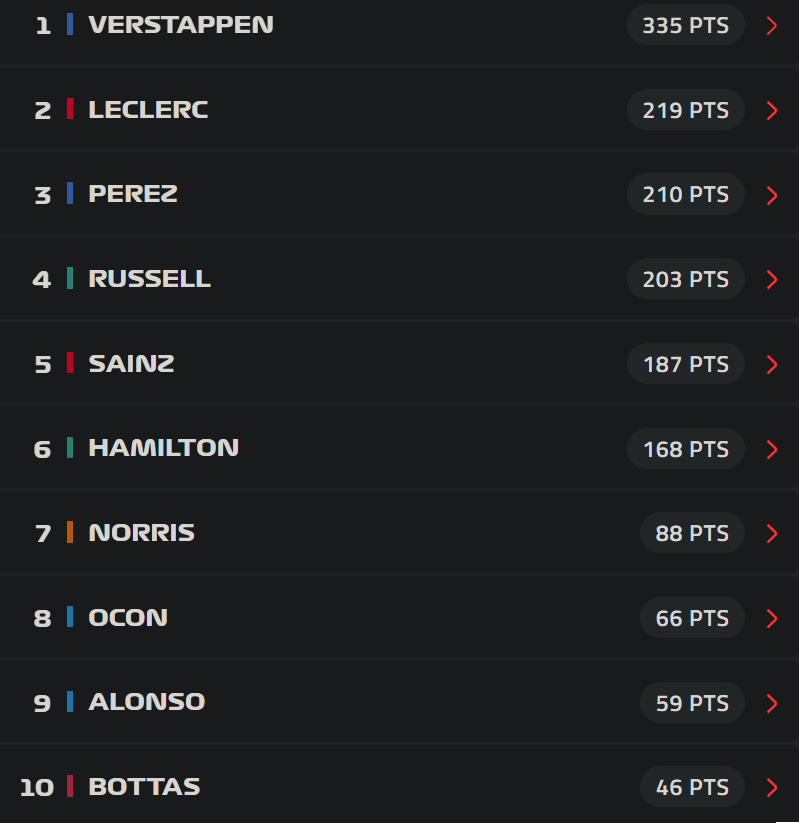
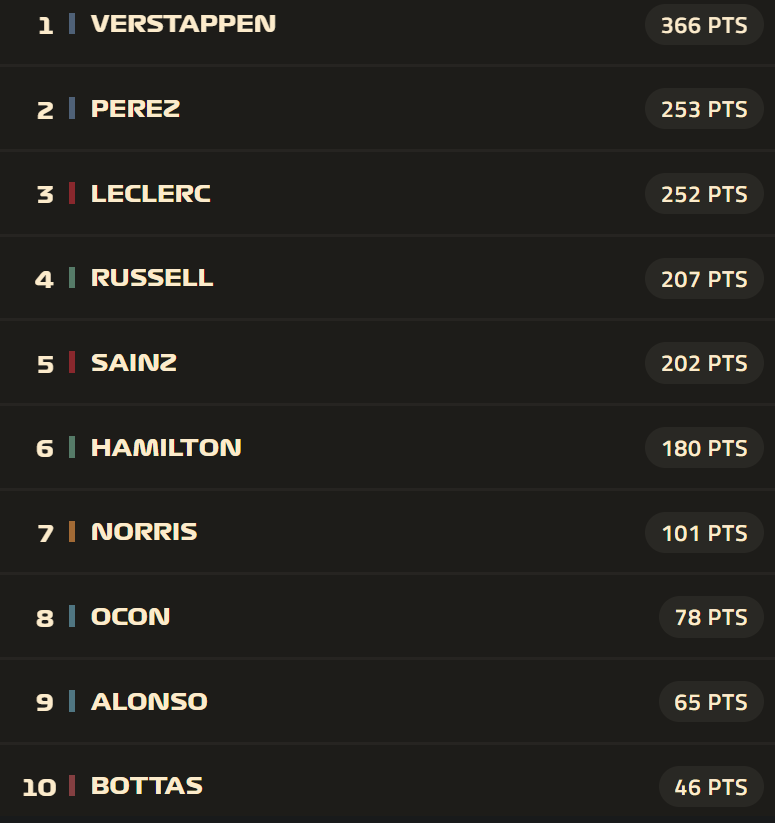
''update''

diff --git a/index.html b/index.html
@@ -114,6 +114,7 @@
                     <h3><img src="首頁資料/icon/f1.png" style="height: 45px;"></h3>
                 </a>
                 <section>
+                    <blockquote class="instagram-media" data-instgrm-captioned data-instgrm-permalink="https://www.instagram.com/p/CjfVsbKoj4i/?utm_source=ig_embed&amp;utm_campaign=loading" data-instgrm-version="14" style=" border-radius:5px; box-shadow:0 0 1px 0 rgba(0,0,0,0.5),0 1px 10px 0 rgba(0,0,0,0.15); margin: 1px;  padding:0; "><div style="padding:16px;"> <a href="https://www.instagram.com/p/CjfVsbKoj4i/?utm_source=ig_embed&amp;utm_campaign=loading" style=" background:#FFFFFF; line-height:0; padding:0 0; text-align:center; text-decoration:none; width:100%;" target="_blank"> <div style=" display: flex; flex-direction: row; align-items: center;"> <div style="background-color: #F4F4F4; border-radius: 50%; flex-grow: 0; height: 40px; margin-right: 14px; width: 40px;"></div> <div style="display: flex; flex-direction: column; flex-grow: 1; justify-content: center;"> <div style=" background-color: #F4F4F4; border-radius: 4px; flex-grow: 0; height: 14px; margin-bottom: 6px; width: 100px;"></div> <div style=" background-color: #F4F4F4; border-radius: 4px; flex-grow: 0; height: 14px; width: 60px;"></div></div></div><div style="padding: 19% 0;"></div> <div style="display:block; height:50px; margin:0 auto 12px; width:50px;"><svg width="50px" height="50px" viewBox="0 0 60 60" version="1.1" xmlns="https://www.w3.org/2000/svg" xmlns:xlink="https://www.w3.org/1999/xlink"><g stroke="none" stroke-width="1" fill="none" fill-rule="evenodd"><g transform="translate(-511.000000, -20.000000)" fill="#000000"><g><path d="M556.869,30.41 C554.814,30.41 553.148,32.076 553.148,34.131 C553.148,36.186 554.814,37.852 556.869,37.852 C558.924,37.852 560.59,36.186 560.59,34.131 C560.59,32.076 558.924,30.41 556.869,30.41 M541,60.657 C535.114,60.657 530.342,55.887 530.342,50 C530.342,44.114 535.114,39.342 541,39.342 C546.887,39.342 551.658,44.114 551.658,50 C551.658,55.887 546.887,60.657 541,60.657 M541,33.886 C532.1,33.886 524.886,41.1 524.886,50 C524.886,58.899 532.1,66.113 541,66.113 C549.9,66.113 557.115,58.899 557.115,50 C557.115,41.1 549.9,33.886 541,33.886 M565.378,62.101 C565.244,65.022 564.756,66.606 564.346,67.663 C563.803,69.06 563.154,70.057 562.106,71.106 C561.058,72.155 560.06,72.803 558.662,73.347 C557.607,73.757 556.021,74.244 553.102,74.378 C549.944,74.521 548.997,74.552 541,74.552 C533.003,74.552 532.056,74.521 528.898,74.378 C525.979,74.244 524.393,73.757 523.338,73.347 C521.94,72.803 520.942,72.155 519.894,71.106 C518.846,70.057 518.197,69.06 517.654,67.663 C517.244,66.606 516.755,65.022 516.623,62.101 C516.479,58.943 516.448,57.996 516.448,50 C516.448,42.003 516.479,41.056 516.623,37.899 C516.755,34.978 517.244,33.391 517.654,32.338 C518.197,30.938 518.846,29.942 519.894,28.894 C520.942,27.846 521.94,27.196 523.338,26.654 C524.393,26.244 525.979,25.756 528.898,25.623 C532.057,25.479 533.004,25.448 541,25.448 C548.997,25.448 549.943,25.479 553.102,25.623 C556.021,25.756 557.607,26.244 558.662,26.654 C560.06,27.196 561.058,27.846 562.106,28.894 C563.154,29.942 563.803,30.938 564.346,32.338 C564.756,33.391 565.244,34.978 565.378,37.899 C565.522,41.056 565.552,42.003 565.552,50 C565.552,57.996 565.522,58.943 565.378,62.101 M570.82,37.631 C570.674,34.438 570.167,32.258 569.425,30.349 C568.659,28.377 567.633,26.702 565.965,25.035 C564.297,23.368 562.623,22.342 560.652,21.575 C558.743,20.834 556.562,20.326 553.369,20.18 C550.169,20.033 549.148,20 541,20 C532.853,20 531.831,20.033 528.631,20.18 C525.438,20.326 523.257,20.834 521.349,21.575 C519.376,22.342 517.703,23.368 516.035,25.035 C514.368,26.702 513.342,28.377 512.574,30.349 C511.834,32.258 511.326,34.438 511.181,37.631 C511.035,40.831 511,41.851 511,50 C511,58.147 511.035,59.17 511.181,62.369 C511.326,65.562 511.834,67.743 512.574,69.651 C513.342,71.625 514.368,73.296 516.035,74.965 C517.703,76.634 519.376,77.658 521.349,78.425 C523.257,79.167 525.438,79.673 528.631,79.82 C531.831,79.965 532.853,80.001 541,80.001 C549.148,80.001 550.169,79.965 553.369,79.82 C556.562,79.673 558.743,79.167 560.652,78.425 C562.623,77.658 564.297,76.634 565.965,74.965 C567.633,73.296 568.659,71.625 569.425,69.651 C570.167,67.743 570.674,65.562 570.82,62.369 C570.966,59.17 571,58.147 571,50 C571,41.851 570.966,40.831 570.82,37.631"></path></g></g></g></svg></div><div style="padding-top: 8px;"> <div style=" color:#3897f0; font-family:Arial,sans-serif; font-size:14px; font-style:normal; font-weight:550; line-height:18px;">在 Instagram 查看這則貼文</div></div><div style="padding: 12.5% 0;"></div> <div style="display: flex; flex-direction: row; margin-bottom: 14px; align-items: center;"><div> <div style="background-color: #F4F4F4; border-radius: 50%; height: 12.5px; width: 12.5px; transform: translateX(0px) translateY(7px);"></div> <div style="background-color: #F4F4F4; height: 12.5px; transform: rotate(-45deg) translateX(3px) translateY(1px); width: 12.5px; flex-grow: 0; margin-right: 14px; margin-left: 2px;"></div> <div style="background-color: #F4F4F4; border-radius: 50%; height: 12.5px; width: 12.5px; transform: translateX(9px) translateY(-18px);"></div></div><div style="margin-left: 8px;"> <div style=" background-color: #F4F4F4; border-radius: 50%; flex-grow: 0; height: 20px; width: 20px;"></div> <div style=" width: 0; height: 0; border-top: 2px solid transparent; border-left: 6px solid #f4f4f4; border-bottom: 2px solid transparent; transform: translateX(16px) translateY(-4px) rotate(30deg)"></div></div><div style="margin-left: auto;"> <div style=" width: 0px; border-top: 8px solid #F4F4F4; border-right: 8px solid transparent; transform: translateY(16px);"></div> <div style=" background-color: #F4F4F4; flex-grow: 0; height: 12px; width: 16px; transform: translateY(-4px);"></div> <div style=" width: 0; height: 0; border-top: 8px solid #F4F4F4; border-left: 8px solid transparent; transform: translateY(-4px) translateX(8px);"></div></div></div> <div style="display: flex; flex-direction: column; flex-grow: 1; justify-content: center; margin-bottom: 24px;"> <div style=" background-color: #F4F4F4; border-radius: 4px; flex-grow: 0; height: 14px; margin-bottom: 6px; width: 224px;"></div> <div style=" background-color: #F4F4F4; border-radius: 4px; flex-grow: 0; height: 14px; width: 144px;"></div></div></a><p style=" color:#c9c8cd; font-family:Arial,sans-serif; font-size:14px; line-height:17px; margin-bottom:0; margin-top:8px; overflow:hidden; padding:8px 0 7px; text-align:center; text-overflow:ellipsis; white-space:nowrap;"><a href="https://www.instagram.com/p/CjfVsbKoj4i/?utm_source=ig_embed&amp;utm_campaign=loading" style=" color:#c9c8cd; font-family:Arial,sans-serif; font-size:14px; font-style:normal; font-weight:normal; line-height:17px; text-decoration:none;" target="_blank">FORMULA 1®（@f1）分享的貼文</a></p></div></blockquote> <script async src="//www.instagram.com/embed.js"></script>
                     <a href="https://www.formula1.com/en/results.html/2022/drivers.html"><img src="首頁資料/f1standing.png"></a>
                     <p>Super Max~</p><br>
                 </section>

diff --git a/card/trd.html b/card/trd.html
@@ -45,7 +45,7 @@
                 <a href="#lastjourney" target="_self" ><li>國三畢業旅行</li></a>
                 <a href="#chih-mo" target="_self" ><li>徐志摩</li></a>  
                 <a href="#bee" target="_self" ><li>嘉大蜜蜂</li></a>  
-                <a href="#beautiful" target="_self" ><li>More beatiful than you think</li></a>  
+                <a href="#beautiful" target="_self" ><li>More beautiful than you think</li></a>
                 <a href="#12-2" target="_self" ><li>十二件禮</li></a>  
                 <a href="#HBD" target="_self" ><li>Happy Birthday</li></a>  
             </ul>   
@@ -58,7 +58,7 @@
         <h2><img src="../首頁資料/icon/study.png"></h2>
         <section>
             <a href="https://tw.voicetube.com/" title="voicetube"><img src="../首頁資料/icon/voicetube.jfif"></a>
-            <a href="https://www.bbc.co.uk/learningenglish/" title="BBC Learning Engligh"><img
+            <a href="https://www.bbc.co.uk/learningenglish/" title="BBC Learning English"><img
                     src="../首頁資料/icon/bbc.png"></a>
             <a href="https://podcasts.google.com/" title="podcast(google)"><img
                     src="../首頁資料/icon/podcast.png"></a>
@@ -139,7 +139,7 @@
         </section>
     </article>
 
-    <br id="baloon">
+    <br id="balloon">
     <article>
         <h3>Chapter 1-4 : 氣球</h3>
         <section>
@@ -152,7 +152,7 @@
     <article>
         <h3>Chapter 1-5 : 特教學校</h3>
         <section>
-            <img src="pic/unforgetable.png">
+            <img src="pic/unforgettable.png">
             <p>gratefulness~</p><br>
         </section>
     </article>
@@ -193,7 +193,7 @@
         </section>
     </article>
 
-    <br id="fairtales">
+    <br id="fairytale">
     <article>
         <h3>Chapter 1-10 : 童話故事繪畫</h3>
         <section>
@@ -233,7 +233,7 @@
     <article>
         <h3>Chapter 1-14 : 淨山</h3>
         <section>
-            <img src="pic/moutain.jpg">
+            <img src="pic/mountain.jpg">
             <p>we're smiling, and mother Earth is smiling,too!</p><br>
         </section>
     </article>
@@ -339,7 +339,7 @@
 
     <br id="beautiful">
     <article>
-        <h3>Chapter 2-3 : More beatiful than you think</h3>
+        <h3>Chapter 2-3 : More beautiful than you think</h3>
         <section>
             <img src="pic/More Beautiful than you think.jpg">
             <p>Thanks everyone~</p><br>

diff --git a/首頁資料/style.css b/首頁資料/style.css
@@ -36,6 +36,7 @@ main article{
 main audio{position:relative;  left:10%; width: 80%;}
 main section,main section img, main section iframe{ position: relative; width: 90%; left: 5%; }
 main section img, main section iframe{top: 20px; border: 0ch; border-radius: 30px; }
+.instagram-media{position: relative;left: 5%;width: 90%;}
 /*-------------------------------------------導覽列--------------------------------------------------------*/
 nav{ position: fixed; top: 8vh; left: 0px; right: 0px; height: 8vh;z-index: 3; }
 nav img { position: relative; width:  calc(5.6vh + 5.6vw); height: calc(5.6vh + 5.6vw); margin:calc(0.75vh + 0.75vw); border-radius: 2vh ; }
